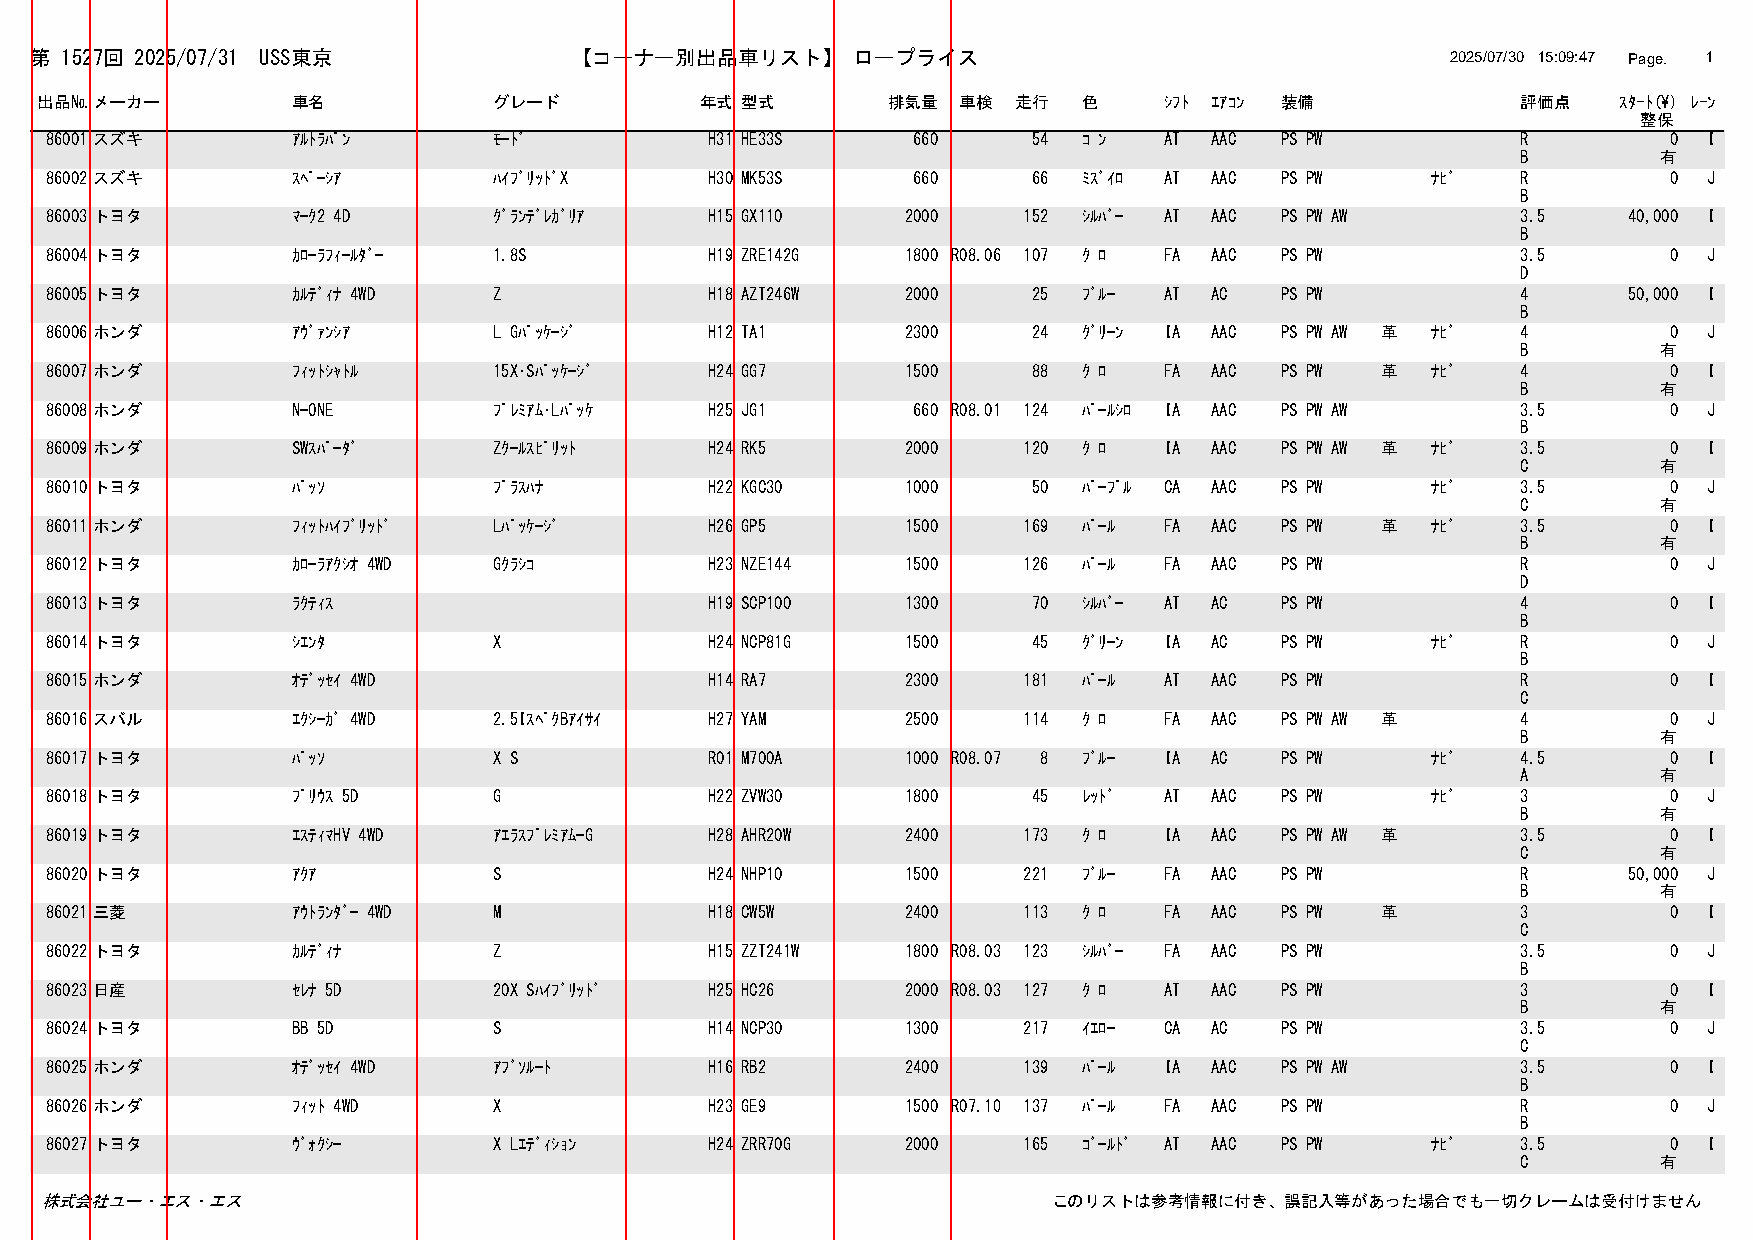
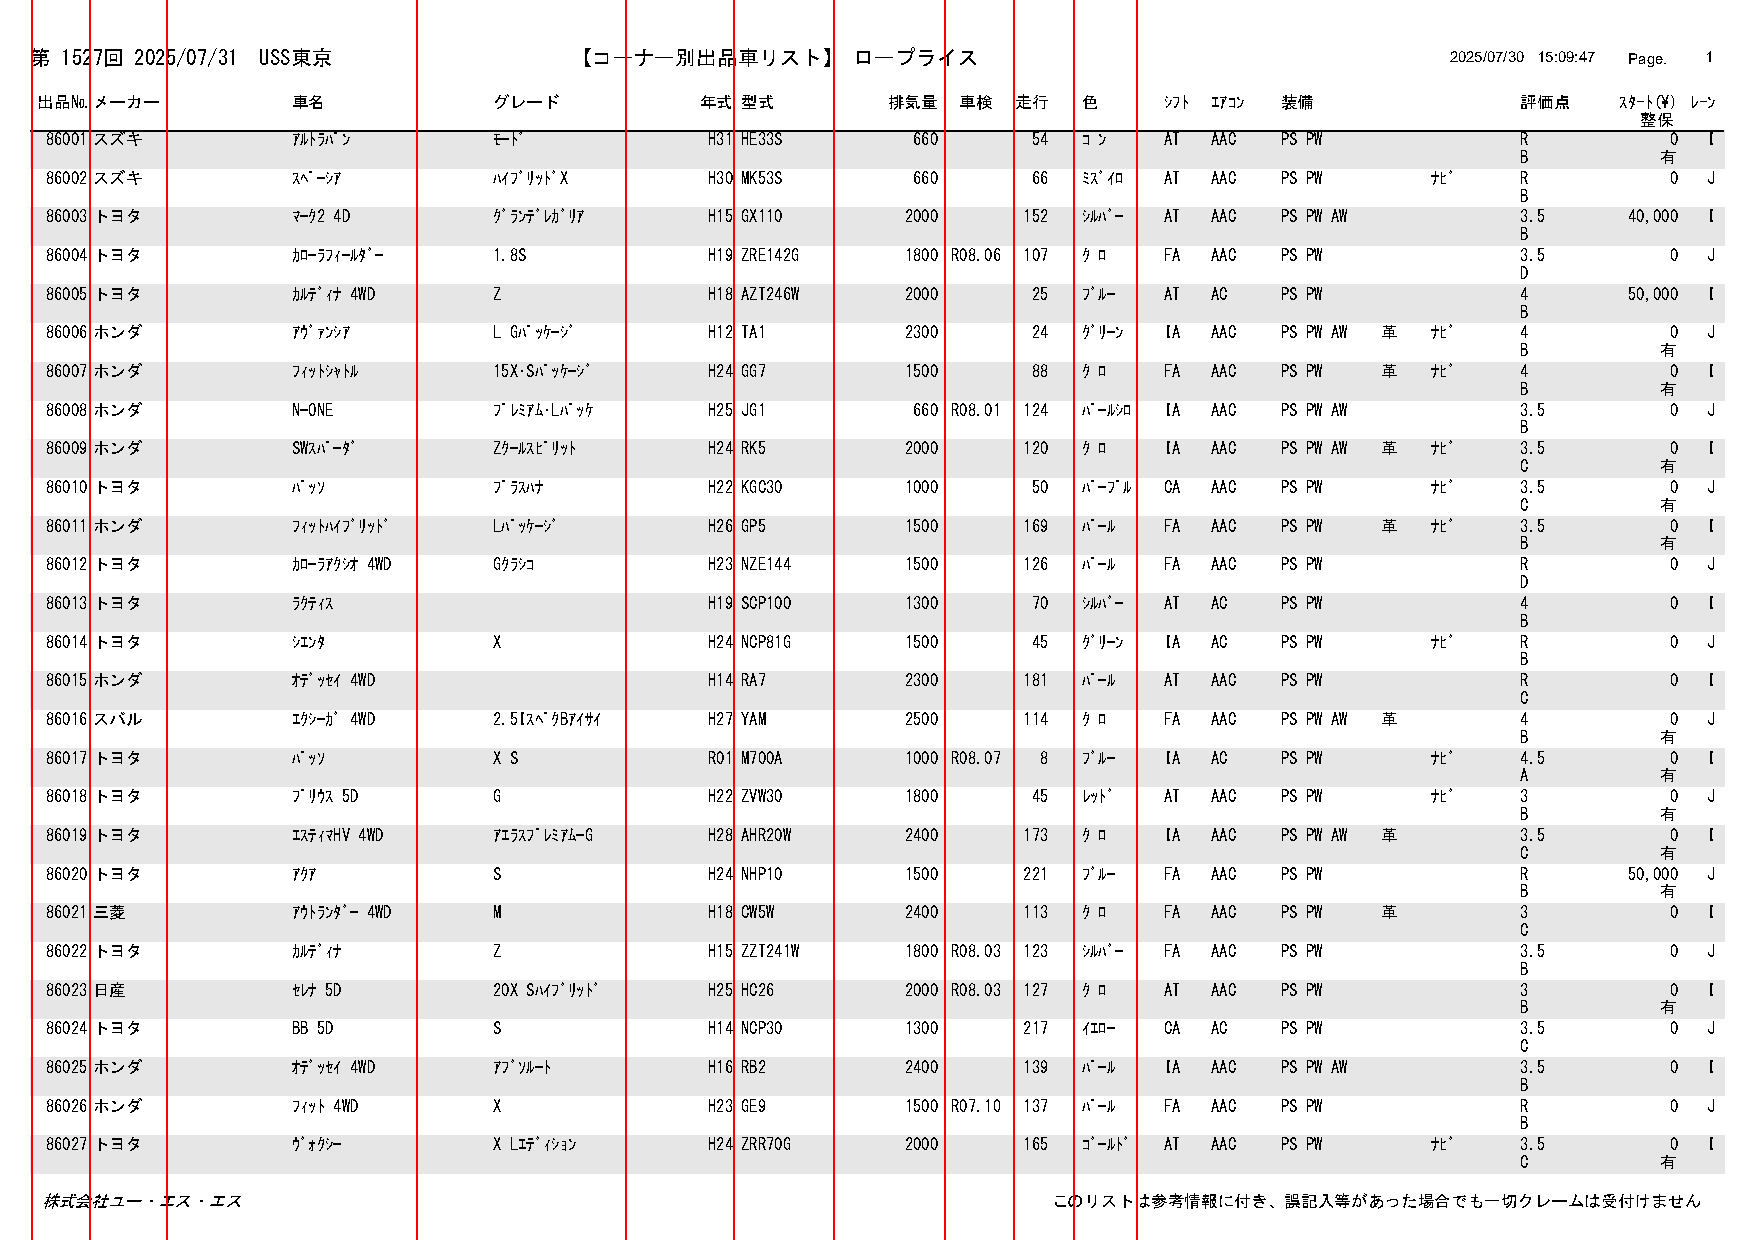
見出し列を変更

diff --git a/src/api/main.py b/src/api/main.py
@@ -74,13 +74,12 @@ def generate_report_pdf(results: list) -> str:
         session.close()
 
     headers = [
-        ("出品番号", 16), ("メーカー", 18), ("車名", 28), ("型式", 18),
-        ("E/G型式", 18), ("総重量", 12), ("E/G部品販売", 18), 
-        ("E/G価値", 16), ("プレス材", 16), ("甲山", 16), ("ハーネス", 16), 
-        ("アルミ", 14), ("触媒", 12),("その他", 12),  ("輸送費等", 12), 
-        ("損益分岐額", 18), ("過去相場(仮)", 18), ("入札対象", 10)
+        ("出品番号", 18), ("メーカー", 18), ("車名", 30), ("グレード", 30), 
+        ("年式", 10), ("型式", 22), ("排気量", 15), ("車検", 18), 
+        ("走行", 15), ("色", 12), 
+        ("E/G販売", 18), ("E/G価値", 18), ("素材価値", 18), ("メモ", 40)
     ]
-    
+
     pdf.set_font('ipaexg', 'B', 7)
     for header, width in headers:
         pdf.cell(width, 7, header, border=1, align='C')
@@ -96,6 +95,13 @@ def generate_report_pdf(results: list) -> str:
         info = res.get('vehicle_info', {})
         breakdown = res.get('breakdown', {})
         model_code = info.get('model_code', '')
+
+        # 素材価値の合計を計算
+        material_value = (
+            breakdown.get('プレス材 (鉄)', 0) +
+            breakdown.get('甲山 (ミックスメタル)', 0) +
+            breakdown.get('ハーネス (銅)', 0)
+        )
         
         # --- 2. 現在の行が注目車種かどうかを判定 ---
         is_target = model_code in target_model_set
@@ -109,17 +115,22 @@ def generate_report_pdf(results: list) -> str:
             should_fill = True
         
         row_data = [
-            res.get('auction_no', ''), info.get('maker', ''), info.get('car_name', ''),
-            info.get('model_code', ''), info.get('engine_model', ''), str(info.get('total_weight_kg', '')),
+            res.get('auction_no', ''),
+            info.get('maker', ''),
+            info.get('car_name', ''),
+            res.get('grade', ''),
+            info.get('year', ''),
+            info.get('model_code', ''),
+            str(res.get('displacement_cc', '')),
+            str(res.get('inspection_date', '')),
+            str(res.get('mileage_km', '')),
+            res.get('color', ''),
             breakdown.get('エンジン部品販売', '×'),
             f"{breakdown.get('エンジン/ミッション', 0):,.0f}",
-            f"{breakdown.get('プレス材 (鉄)', 0):,.0f}", f"{breakdown.get('甲山 (ミックスメタル)', 0):,.0f}",
-            f"{breakdown.get('ハーネス (銅)', 0):,.0f}", f"{breakdown.get('アルミホイール', 0):,.0f}",
-            f"{breakdown.get('Catalyst', 0):,.0f}",  "0",
-            f"{breakdown.get('輸送費 (減算)', 0):,.0f}",
-            f"{res.get('total_value', 0):,.0f}", f"{res.get('past_auction_price', 0):,.0f}",
-            res.get('bidding_recommendation', '')
+            f"{material_value:,.0f}",
+            '' # メモ欄のデータを空にする
         ]
+        
         
         for col_idx, (data, width) in enumerate(zip(row_data, [w for h, w in headers])):
             is_highlight_col = headers[col_idx][0] in highlight_columns

diff --git a/src/estimate_value.py b/src/estimate_value.py
@@ -20,6 +20,19 @@ def get_component_price(session: Session, item_name: str, vehicle: VehicleMaster
     default_price_key = item_name.lower().replace(" ", "_").replace("/", "_") + "_price"
     return VALUATION_PRICES.get(default_price_key, 0.0)
 
+def calculate_material_value(vehicle: VehicleMaster, current_prices: dict) -> float:
+    """
+    車両の素材価値（プレス材、甲山、ハーネスなど）の合計を計算する
+    """
+    if not vehicle.total_weight_kg:
+        return 0.0
+
+    press_value = (vehicle.total_weight_kg * WEIGHT_BASE_RATIOS["press"]) * current_prices.get("press_per_kg", 0)
+    kouzan_value = (vehicle.total_weight_kg * WEIGHT_BASE_RATIOS["kouzan"]) * current_prices.get("kouzan_per_kg", 0)
+    harness_value = (vehicle.total_weight_kg * WEIGHT_BASE_RATIOS["harness"]) * current_prices.get("harness_per_kg", 0)
+    
+    return press_value + kouzan_value + harness_value
+
 def estimate_scrap_value(model_code_to_find: str, session: Session, custom_prices: dict = None):
     """
     指定された型式の車両価値を見積もり、辞書として返す

diff --git a/debug_layout.py b/debug_layout.py
@@ -12,7 +12,10 @@ COLUMN_BOUNDARIES = {
     "grade": (200, 300),
     "year": (300, 352),
     "model_code": (352, 400),
-    "mileage_km": (400, 456),
+    "displacement_cc": (400, 453), # 「排気量」
+    "inspection_date": (453, 486), # 「車検」
+    "mileage_km": (486, 515),      # 「走行」
+    "color": (515, 548),          # 「色」
 }
 # ▲▲▲ この辞書の値を、出力画像を見ながら調整していきます ▲▲▲
 # --------------------------------------------------------------------------

diff --git a/src/data_processing/pdf_parser.py b/src/data_processing/pdf_parser.py
@@ -13,7 +13,10 @@ COLUMN_BOUNDARIES = {
     "grade": (200, 300),
     "year": (300, 352),
     "model_code": (352, 400),
-    "mileage_km": (400, 456),
+    "displacement_cc": (400, 453), # 「排気量」
+    "inspection_date": (453, 486), # 「車検」
+    "mileage_km": (486, 515),      # 「走行」
+    "color": (515, 548),          # 「色」
 }
 
 def extract_vehicles_from_pdf(pdf_path: str) -> List[Dict]:
